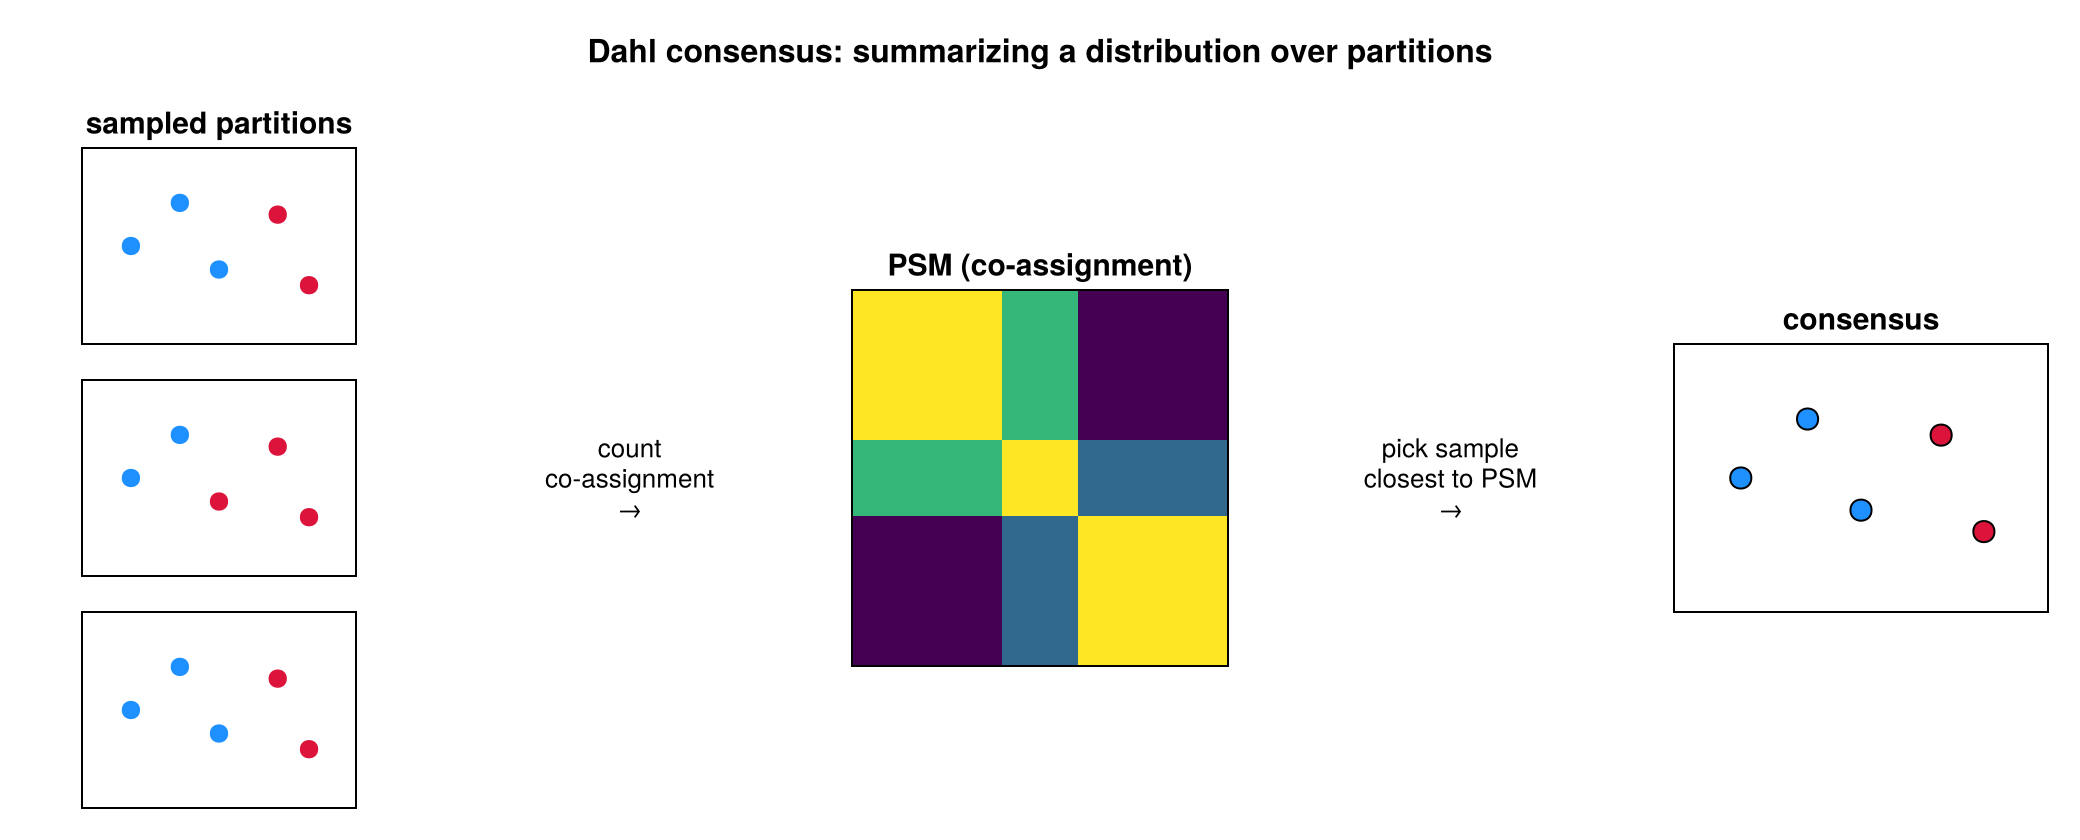
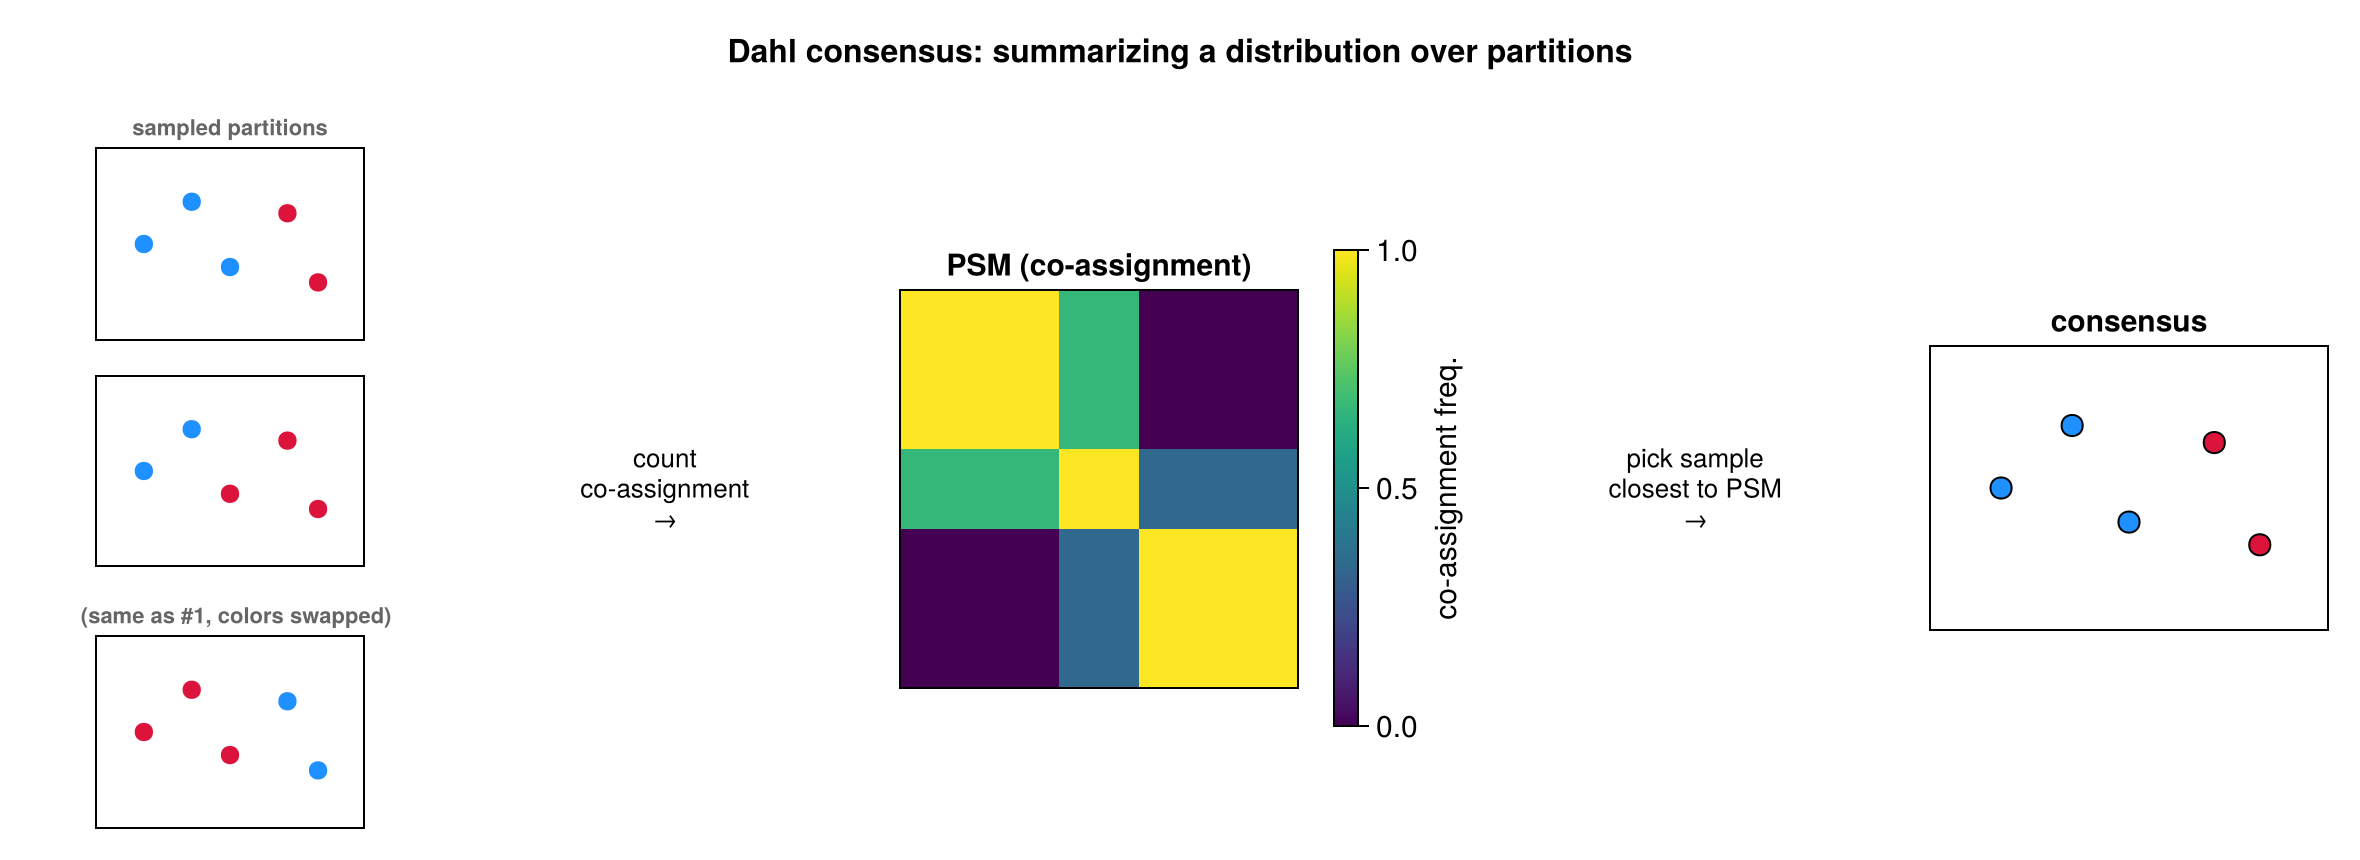
docs: tighten educational primers per Codex review
Address Codex's review of the new teaching content:
- Overview: 'cannot be normalized/maximized' (not 'written down'); add a bridge
  sentence (positions integrated out for sampling, recovered for reporting;
  μ/shape learned hyperparameters); don't overstate exactness for :locmix
  (Gaussian core exact, locmix prior is a plug-in); 'target posterior' not
  'exactly the posterior'.
- P(K) figure + caption: 'most probable K = 6' (modal K), not 'MAP-N' (MAP-N also
  fixes the grouping/positions via Dahl).
- Hierarchical: 'hierarchical Bayes' (full-Bayes; empirical Bayes only loosely);
  final_μ/shape are the final *sampled* values.
- Collapsed: positions are nuisance *for the grouping search*, recovered as the
  reported positions; 'closed-form Gaussian marginal'.
- Dahl figure now *shows* label switching (sample 3 = sample 1, colors swapped)
  + a co-assignment colorbar; caption notes it.

Builds clean.

diff --git a/docs/src/math/index.md b/docs/src/math/index.md
@@ -100,17 +100,24 @@ with the data:
 \underbrace{p(K, \mathbf{z})}_{\text{prior}} .
 ```
 
-This posterior cannot be written down or maximized directly — there are astronomically many
-ways to group localizations into emitters. So BaGoL **samples** it: the MCMC sampler visits
-groupings in proportion to their posterior probability. The result is therefore not a single
-answer but a **distribution** — for instance a full posterior over the number of emitters
-``K``, from which we read both the most probable count and how much to trust it.
+In the schematic above the per-emitter positions ``\boldsymbol{\theta}`` are integrated out of
+the likelihood (the *collapsing* trick described below) and recovered analytically for
+reporting, while the blink parameters ``\mu, \alpha`` are learned as shared hyperparameters —
+so the sampler explores only ``(K, \mathbf{z})``.
+
+This posterior cannot be *normalized* or exhaustively maximized directly — there are
+astronomically many ways to group localizations into emitters. So BaGoL **samples** it: the
+MCMC sampler visits groupings in proportion to their posterior probability. The result is
+therefore not a single answer but a **distribution** — for instance a full posterior over the
+number of emitters ``K``, from which we read both the most probable count and how much to
+trust it.
 
 ![The posterior is a distribution over K](../assets/overview_posterior_k.png)
 
 *The sampler returns a posterior ``P(K)`` over the emitter count, not just one number. The
-MAP-N estimate (dashed) is its peak; a broad distribution means the data leave ``K``
-genuinely uncertain — something a single point estimate would hide.*
+most probable count (dashed, here ``K = 6``) is its peak — the count MAP-N reports; a broad
+distribution means the data leave ``K`` genuinely uncertain, something a single point estimate
+would hide.*
 
 ## How BaGoL samples it: collapsed RJMCMC
 
@@ -122,7 +129,7 @@ cannot move between models with different numbers of parameters; **reversible-ju
 (RJMCMC)** is the extension that can. Its dimension-changing moves — split one
 cluster into two, merge two into one, give birth to a new emitter, remove an empty one —
 propose a jump ``K \to K \pm 1`` and accept it with a Metropolis–Hastings ratio constructed
-so the chain's stationary distribution is exactly the posterior. (The moves are detailed on
+so the chain's stationary distribution is the target posterior. (The moves are detailed on
 [The Sampler: Moves](moves.md).)
 
 BaGoL adds one decisive simplification: it **never samples the continuous positions**
@@ -141,9 +148,11 @@ p\big(\boldsymbol{\theta}_k \mid \{\mathbf{x}_i : z_i = k\}\big) =
 
 Because that posterior is analytic, the position can be **integrated out in closed form**,
 leaving the cluster's *marginal likelihood* — the probability of that collection of
-localizations with the emitter position already accounted for. The sampler therefore carries
-a **collapsed** state: only the discrete allocation ``(K, \mathbf{z})``, scored by a product
-of analytic cluster marginals. This is the **collapsed Gibbs** sampler, and it buys two
+localizations with the emitter position already accounted for. (The Gaussian core is exact;
+the default `:locmix` spatial-prior term is a fast plug-in approximation — see
+[Spatial Models & Marginal Likelihood](marginal.md).) The sampler therefore carries a
+**collapsed** state: only the discrete allocation ``(K, \mathbf{z})``, scored by a product of
+analytic cluster marginals. This is the **collapsed Gibbs** sampler, and it buys two
 things:
 
 - **Better mixing, lower variance** — the high-variance continuous positions are handled

diff --git a/docs/src/math/hierarchical.md b/docs/src/math/hierarchical.md
@@ -17,7 +17,7 @@ dSTORM dataset and a densely-blinking DNA-PAINT dataset are fit with different l
 Concretely, the hyperparameters are not fixed — they are updated from the data every
 `sync_interval` iterations (default 100), gated by `learn_distribution` (`hierarchical.jl`).
 
-!!! note "General method: hierarchical (empirical) Bayes"
+!!! note "General method: hierarchical Bayes"
     Fixing ``\mu`` and ``\alpha`` to guessed values would bake an assumption about your
     sample's blinking into the result. Instead BaGoL treats them as **shared parameters** of a
     *hierarchical* model: every emitter's blink count is drawn from one common count
@@ -25,10 +25,11 @@ Concretely, the hyperparameters are not fixed — they are updated from the data
     inferred from the data. Because all emitters inform the same ``(\mu, \alpha)``, the
     estimate **pools information across the whole field** — many emitters with only a few
     blinks each still pin the distribution down ("borrowing strength"). Learning shared
-    hyperparameters this way is a standard hierarchical-Bayes / empirical-Bayes technique used
-    far beyond SMLM; here it just means you need not know the blinking kinetics in advance.
-    **In your output:** `final_μ` / `final_shape` are the learned values, and the
-    `convergence_trace` shows them settling.
+    hyperparameters this way is a standard hierarchical-Bayes technique used far beyond SMLM
+    (in full-Bayes form here — the hyperparameters are *sampled*, not fixed to a point estimate
+    as in empirical Bayes); it just means you need not know the blinking kinetics in advance.
+    **In your output:** `final_μ` / `final_shape` are the final learned (last-sampled) values,
+    and the `convergence_trace` shows them settling.
 
 ![How the count distribution is learned and fed back](../assets/hier_flow.png)
 

diff --git a/docs/src/math/collapsed.md b/docs/src/math/collapsed.md
@@ -85,9 +85,9 @@ page derives that marginal likelihood for both spatial models.
     Whenever some parameters can be integrated out *exactly*, it is usually worth doing:
     sampling fewer, lower-variance quantities makes MCMC both faster and less noisy — a
     standard trick called **Rao–Blackwellization**. Here the emitter positions
-    ``\boldsymbol{\theta}_k`` are nuisance parameters; Gaussian conjugacy lets us replace
-    "sample each position, then score" with a single closed-form marginal likelihood per
-    cluster. The chain then explores only the discrete groupings, and the positions are
-    recovered analytically at the end. The same idea underlies the Rao-Blackwellized posterior
+    ``\boldsymbol{\theta}_k`` are nuisance parameters *for the grouping search* — recovered
+    analytically as the reported positions once the grouping is fixed. Gaussian conjugacy lets
+    us replace "sample each position, then score" with a closed-form Gaussian marginal per
+    cluster, so the chain explores only the discrete groupings. The same idea underlies the Rao-Blackwellized posterior
     image, which blurs each cluster by its *posterior* covariance instead of plotting point
     estimates.

diff --git a/docs/src/math/mapn.md b/docs/src/math/mapn.md
@@ -23,8 +23,10 @@ count and a reference grouping, then overlap-Hungarian pooling for positions and
 
 ![Dahl consensus: sampled partitions to PSM to closest sample](../assets/mapn_dahl.png)
 
-*Many sampled partitions are reduced to their pairwise co-assignment matrix (the PSM); Dahl
-returns the sampled partition closest to it — the consensus grouping.*
+*Many sampled partitions are reduced to their pairwise co-assignment matrix (the PSM) — note
+the first and last samples are the **same** grouping with swapped colors (label switching),
+which the label-free PSM ignores. Dahl returns the sampled partition closest to the PSM: the
+consensus grouping.*
 
 ## Dahl consensus
 
